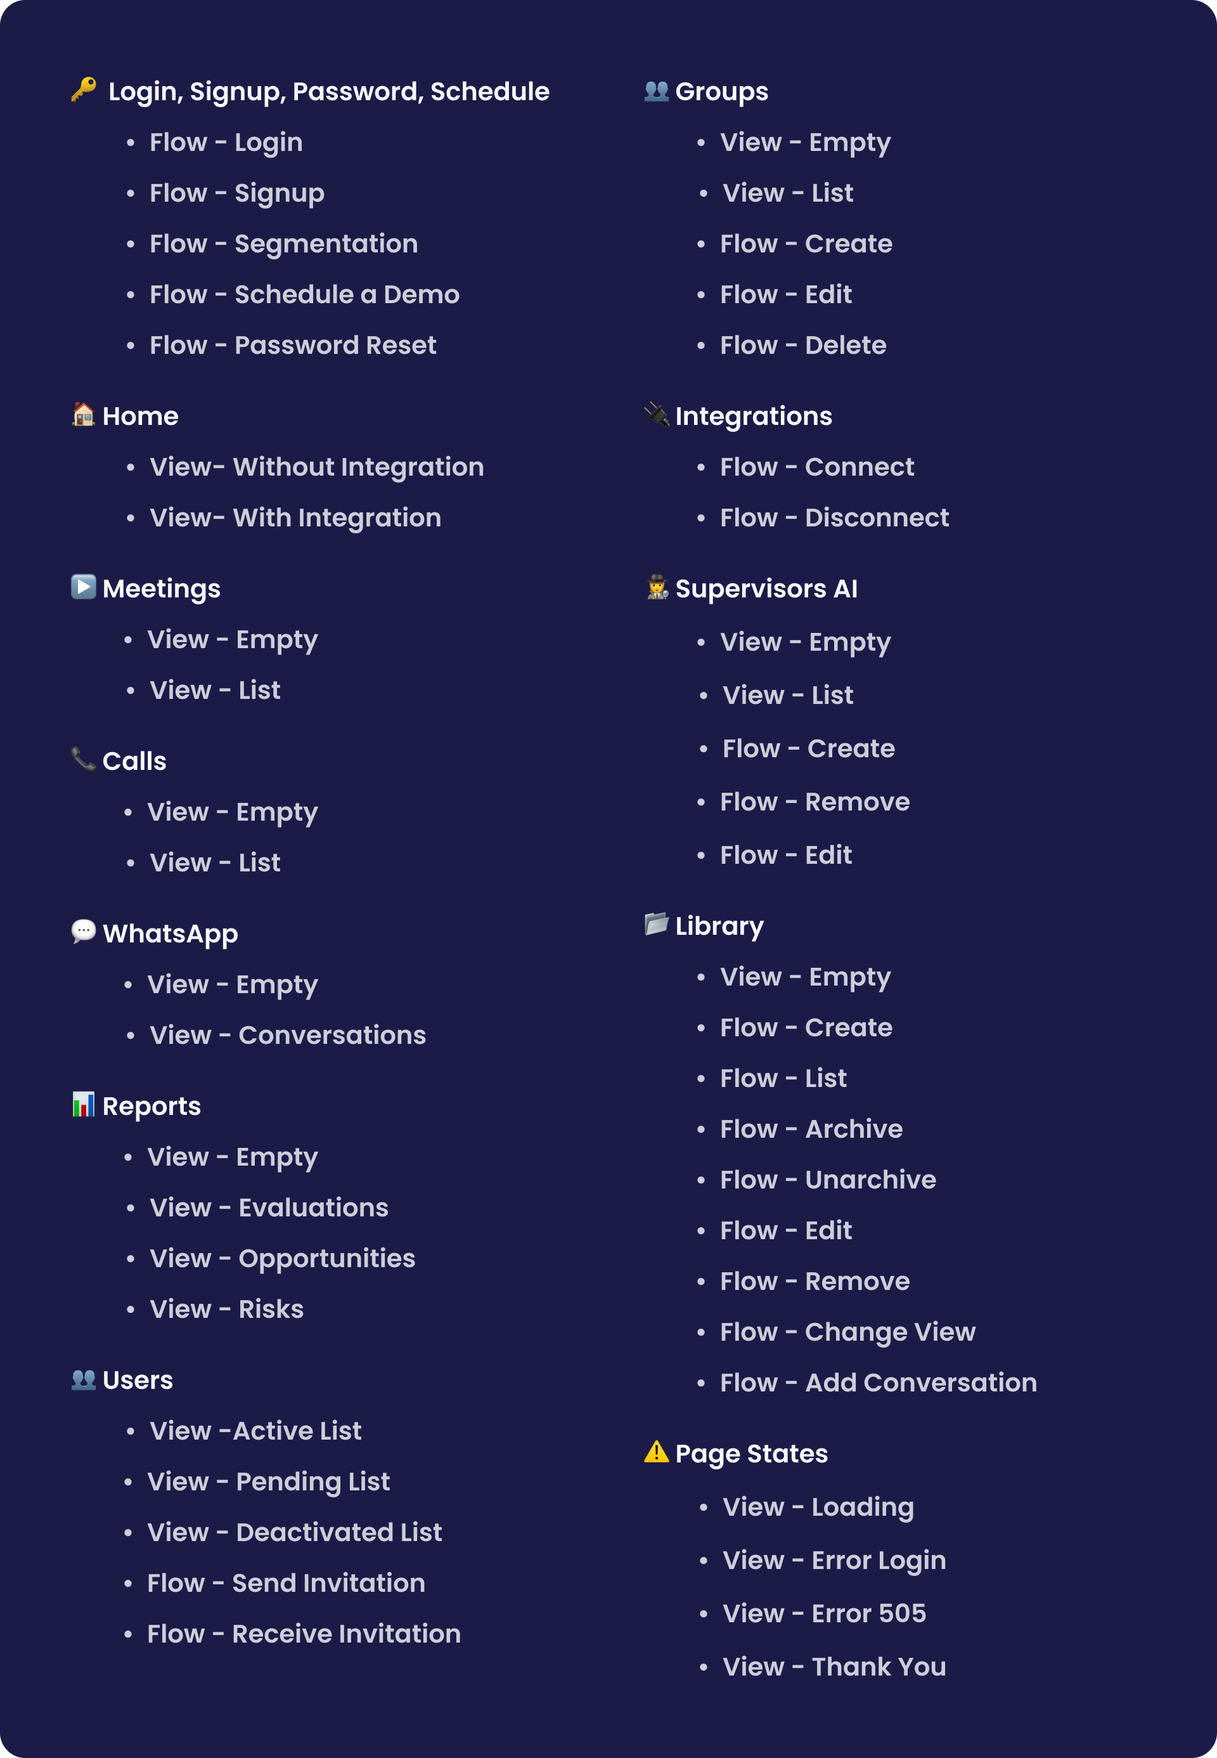
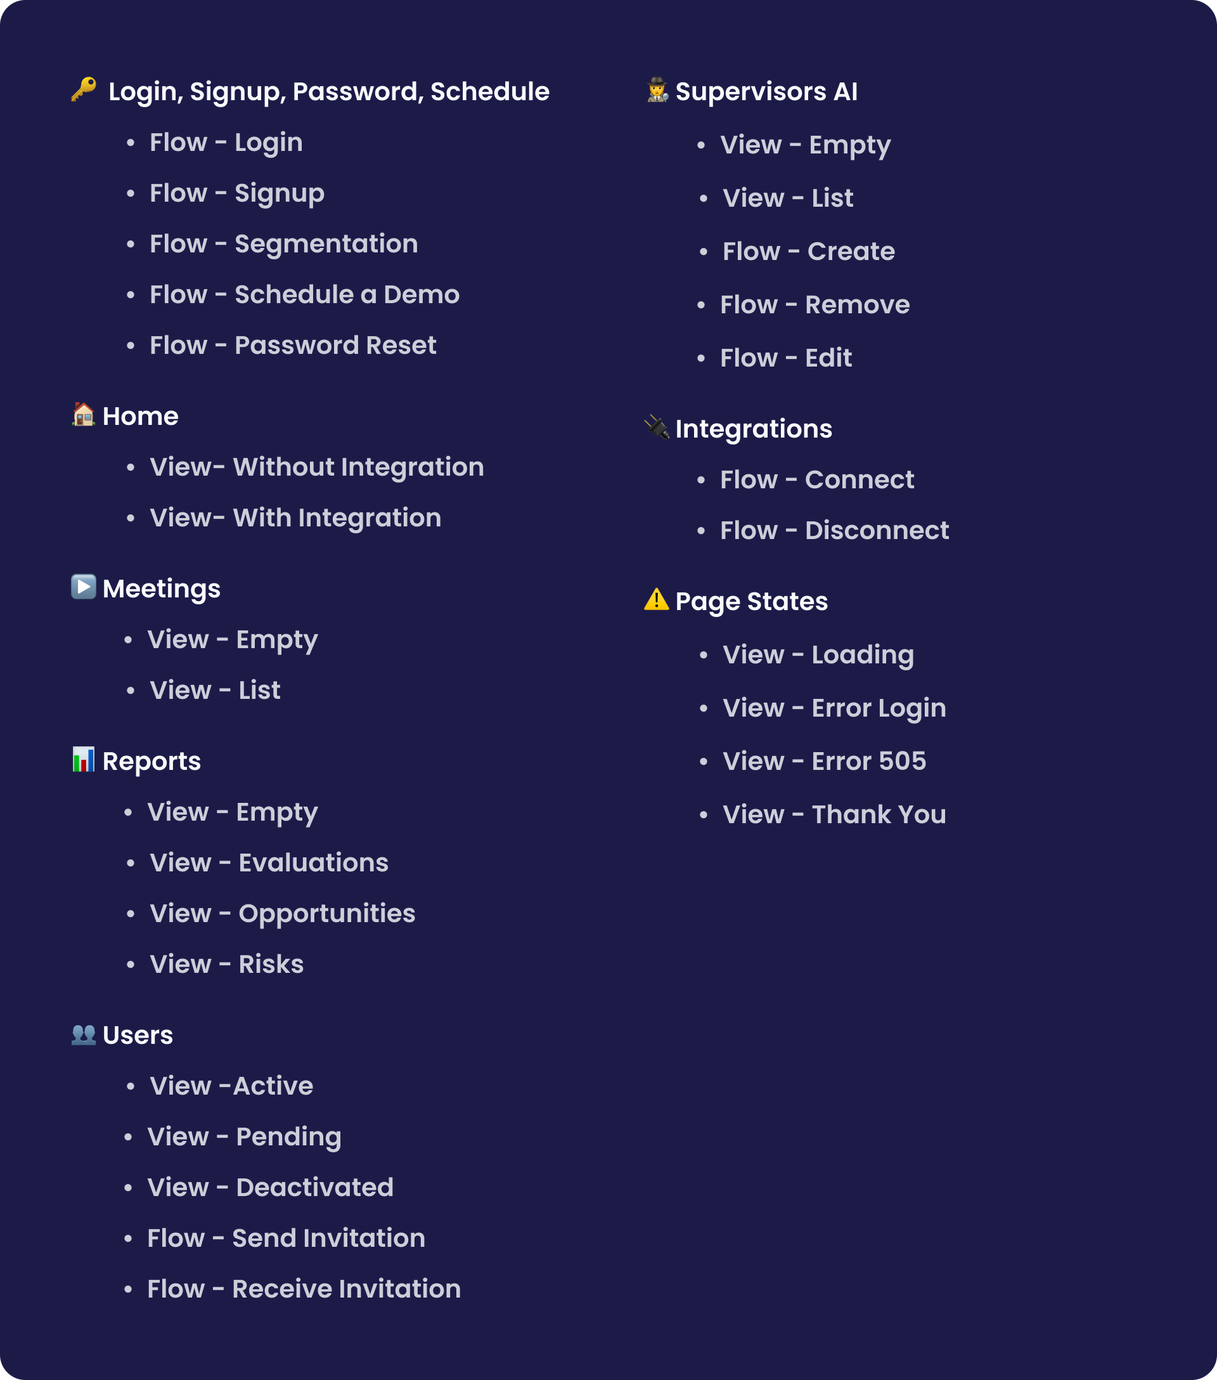
feat: publicar el caso Framework para agentes de voz con IA
Añade el tercer proyecto del portafolio, actualiza copy de Principios y bump a v2.1.0 para el Laboratorio.

Changed region(s): [[0.0625, 0.0312, 0.4375, 0.9375], [0.5312, 0.0312, 0.8438, 0.9688]]

diff --git a/src/content/cases/agents-studio.ts b/src/content/cases/agents-studio.ts
@@ -1,0 +1,105 @@
+import frameworkCover from '../../assets/images/framework-ai-voice-agents-cover.png';
+import leracomLogo from '../../assets/logos/leracom-ai.png';
+import { Language, Project } from '../../types';
+
+export function agentsStudioProject(lang: Language): Project {
+  const es = lang === 'es';
+  const impactStats = [
+    {
+      value: es ? '3 meses → 1 semana' : '3 months → 1 week',
+      label: es ? 'Implementación del voicebot' : 'Voicebot implementation'
+    },
+    {
+      value: es ? '12+ → 6 sesiones' : '12+ → 6 sessions',
+      label: es ? 'por proyecto' : 'per project'
+    }
+  ];
+
+  return {
+    id: 'agents-studio',
+    title: es
+      ? 'Framework para agentes de voz con IA'
+      : 'Framework for AI voice agents',
+    category: 'Product',
+    company: 'Leracom AI',
+    logo: leracomLogo,
+    description: es
+      ? 'Framework para agentes de voz con IA'
+      : 'Framework for AI voice agents',
+    intro: es
+      ? 'Diseñé y estandaricé un proceso para crear agentes de voz con IA enfocados en automatizar operaciones de cobranza, ventas y reclutamiento.\n\nEl framework organiza el trabajo desde el discovery y la arquitectura conversacional hasta la implementación, validación y lanzamiento a producción.'
+      : 'I designed and standardized a process for creating AI voice agents focused on automating collections, sales, and recruiting operations.\n\nThe framework organizes the work from discovery and conversational architecture through implementation, validation, and production launch.',
+    image: frameworkCover,
+    cardTitle: es ? 'Framework para agentes de voz con IA' : 'Framework for AI voice agents',
+    role: es ? 'UX Conversacional' : 'Conversational UX',
+    duration: es ? '6 meses' : '6 months',
+    impact: es
+      ? 'De 3 meses a 1 semana de implementación. De 12+ a 6 sesiones por proyecto.'
+      : 'From 3 months to 1 week of implementation. From 12+ to 6 sessions per project.',
+    impactStats,
+    tools: [
+      es ? 'UX Conversacional' : 'Conversational UX',
+      'Discovery',
+      es ? 'Arquitectura conversacional' : 'Conversational architecture',
+      'Customer Journeys',
+      es ? 'Reglas de negocio' : 'Business rules',
+      es ? 'Validación' : 'Validation',
+      es ? 'Entrevistas de usuario' : 'User interviews',
+      es ? 'Agentes de voz con AI' : 'AI voice agents'
+    ],
+    sections: [
+      {
+        id: 'results',
+        title: es ? 'Impacto' : 'Impact',
+        detailBody: es
+          ? 'Redujimos el tiempo necesario para configurar, entrenar, integrar y llevar un voicebot a producción una vez definidos los requerimientos.\n\nReducimos el mínimo promedio de sesiones necesarias para la implementación end to end de cada implementación.\n\nEstandarizamos el proceso para implementar agentes de voz en operaciones de cobranza, ventas y reclutamiento.'
+          : 'We reduced the time needed to configure, train, integrate, and take a voicebot to production once requirements were defined.\n\nWe reduced the average minimum of sessions needed for the end-to-end implementation of each project.\n\nWe standardized the process for implementing voice agents in collections, sales, and recruiting operations.',
+        stats: impactStats
+      },
+      {
+        id: 'problem',
+        title: es ? 'Problema' : 'Problem',
+        detailBody: es
+          ? 'Las primeras implementaciones de voicebots requerían demasiadas reuniones con clientes para entender cómo funcionaba cada negocio.\n\nLa información estaba dispersa, muchos clientes no contaban con documentación completa y no teníamos un proceso estándar para identificar reglas, manejo de objeciones, preguntas frecuentes, variables e integraciones.\n\nEsto provocaba cambios frecuentes de alcance y múltiples rondas de ajustes.\n\nEl reto era crear un proceso replicable para obtener la información necesaria, definir cómo debía comportarse cada agente y acelerar su implementación.'
+          : 'The first voicebot implementations required too many client meetings to understand how each business worked.\n\nInformation was scattered, many clients lacked complete documentation, and we had no standard process to identify rules, objection handling, FAQs, variables, and integrations.\n\nThat led to frequent scope changes and multiple rounds of adjustments.\n\nThe challenge was to create a repeatable process to gather the needed information, define how each agent should behave, and speed up implementation.',
+        body: es
+          ? 'Las primeras implementaciones requerían demasiadas reuniones, información dispersa y múltiples cambios de alcance.\n\nEl reto era crear un proceso replicable para definir y construir agentes de voz para cobranza, ventas y reclutamiento.'
+          : 'The first implementations needed too many meetings, scattered information, and multiple scope changes.\n\nThe challenge was to create a repeatable process to define and build voice agents for collections, sales, and recruiting.'
+      },
+      {
+        id: 'process',
+        title: es ? 'Cómo Construimos el Framework' : 'How We Built the Framework',
+        steps: [
+          {
+            number: '01',
+            title: 'Discovery',
+            body: es
+              ? 'Estandaricé el discovery para identificar desde el inicio la información necesaria entre las áreas de cobranza, ventas y reclutamiento.\n\nIdentifiqué patrones entre las áreas de cobranza, ventas y reclutamiento para definir qué información necesitábamos solicitar desde las primeras sesiones.\n\nEstandarizamos las preguntas de discovery y la documentación requerida, incluyendo procesos, scripts, llamadas reales, preguntas frecuentes, manejo de objeciones y reglas de negocio.'
+              : 'I standardized discovery to identify from the start the information needed across collections, sales, and recruiting.\n\nI identified patterns across collections, sales, and recruiting to define what information we needed to request from the first sessions.\n\nWe standardized discovery questions and the required documentation, including processes, scripts, real calls, FAQs, objection handling, and business rules.'
+          },
+          {
+            number: '02',
+            title: es ? 'Arquitectura conversacional' : 'Conversational architecture',
+            body: es
+              ? 'Transformé los requerimientos del negocio en flujos conversacionales con reglas, manejo de objeciones, preguntas frecuentes, condiciones, variables y criterios de escalamiento.\n\nCon la información recopilada, diseñábamos los flujos conversacionales que definían cómo debía comportarse el agente en cada conversación.\n\nTrabajábamos con expertos del cliente para establecer reglas, manejo de objeciones, preguntas frecuentes, condiciones, variables y criterios de escalamiento.\n\nCuando no existían scripts o documentación suficiente, analizábamos llamadas reales para construir una base conversacional.'
+              : 'I turned business requirements into conversational flows with rules, objection handling, FAQs, conditions, variables, and escalation criteria.\n\nWith the information gathered, we designed the conversational flows that defined how the agent should behave in each conversation.\n\nWe worked with the client’s experts to set rules, objection handling, FAQs, conditions, variables, and escalation criteria.\n\nWhen there were no scripts or enough documentation, we analyzed real calls to build a conversational baseline.'
+          },
+          {
+            number: '03',
+            title: es ? 'Implementación' : 'Implementation',
+            body: es
+              ? 'Configuramos y entrenamos el voicebot e integramos los sistemas necesarios para operar con datos del cliente.\n\nUna vez validado el flujo, configurábamos y entrenábamos el voicebot.\n\nEn paralelo, coordinábamos con desarrollo las conexiones necesarias mediante APIs, webhooks y CRM para consultar o registrar información durante las llamadas.'
+              : 'We configured and trained the voicebot and integrated the systems needed to operate with client data.\n\nOnce the flow was validated, we configured and trained the voicebot.\n\nIn parallel, we coordinated with development the connections needed through APIs, webhooks, and CRM to query or record information during calls.'
+          },
+          {
+            number: '04',
+            title: es ? 'Validación y lanzamiento' : 'Validation and launch',
+            body: es
+              ? 'Validamos los casos de uso y realizamos una preliberación de un mínimo de llamadas antes del lanzamiento a producción.\n\nProbábamos los casos de uso definidos junto con el cliente y corregíamos los comportamientos que no cumplían con las reglas establecidas.\n\nAntes de producción realizábamos una preliberación de un mínimo de llamadas reales para comprobar la estabilidad del agente durante la marcación y la conversación.\n\nDespués de los ajustes finales, el voicebot pasaba a producción.'
+              : 'We validated use cases and ran a pre-release of a minimum number of calls before production launch.\n\nWe tested the defined use cases with the client and corrected behavior that did not meet the established rules.\n\nBefore production we ran a pre-release of a minimum number of real calls to check the agent’s stability during dialing and conversation.\n\nAfter the final adjustments, the voicebot went to production.'
+          }
+        ]
+      }
+    ]
+  };
+}

diff --git a/src/content/data.ts b/src/content/data.ts
@@ -23,7 +23,7 @@ export const TRANSLATIONS = {
     splashLine: 'Bienvenidxs, ¡Soy Andur!',
     heroPhrases: [
       'Me apasiona construir sistemas vivos que evolucionen constantemente',
-      'Actualmente, me especializo en diseñar productos SaaS, fintech e IA',
+      'Me especializo en diseñar productos SaaS, fintech e IA',
       'Creo experiencias únicas que conectan de forma genuina con las personas',
     ],
     splashHint: 'Haz clic o desplázate para continuar',
@@ -109,7 +109,7 @@ export const TRANSLATIONS = {
     splashLine: "Welcome, I'm Andur!",
     heroPhrases: [
       'I’m passionate about building living systems that keep evolving',
-      'I currently specialize in designing SaaS, fintech, and AI products',
+      'I specialize in designing SaaS, fintech, and AI products',
       'I create unique experiences that connect genuinely with people',
     ],
     splashHint: 'Click or scroll to continue',
@@ -129,7 +129,7 @@ export const TRANSLATIONS = {
     modalDuration: 'Duration',
     modalImpact: 'Impact',
     modalDetail: 'Detailed',
-    modalBrief: 'Brief',
+    modalBrief: 'TL:DR',
     modalSummary: 'Project Summary',
     modalTools: 'Tools and skills',
     modalClose: 'Close',
@@ -188,26 +188,26 @@ export const METRICS = (lang: 'es' | 'en'): Metric[] => [
 export const APPROACH_STAGES = (lang: 'es' | 'en'): ApproachStage[] => [
   {
     number: '01',
-    title: lang === 'es' ? 'Entender para Diseñar' : 'Understand to Design',
+    title: lang === 'es' ? 'Entender para Definir' : 'Understand to Define',
     description: lang === 'es'
-      ? 'Antes de construir una solución busco entender a las personas, el negocio, el contexto y los alcances técnicos. Una interfaz clara comienza con un problema bien definido.'
-      : 'Before building a solution I seek to understand people, the business, the context, and the technical constraints. A clear interface starts with a well-defined problem.',
+      ? 'Antes de construir una solución busco entender a las personas, el negocio, el contexto y los alcances técnicos.'
+      : 'Before building a solution I seek to understand people, the business, the context, and the technical constraints.',
     icon: 'understand',
   },
   {
     number: '02',
     title: lang === 'es' ? 'Colaborar para Decidir' : 'Collaborate to Decide',
     description: lang === 'es'
-      ? 'Colaborar con diferentes áreas ayuda a descubrir nuevas ideas, reducir supuestos, priorizar y tomar decisiones compartidas. La comunicación es una habilidad indispensable para construir mejores productos.'
-      : 'Collaborating with different teams helps uncover new ideas, reduce assumptions, prioritize, and make shared decisions. Communication is an essential skill for building better products.',
+      ? 'La comunicación constante con diferentes áreas es indispensable para descubrir nuevas ideas, reducir supuestos, priorizar y tomar decisiones compartidas para construir mejores productos.'
+      : 'Constant communication with different teams is essential to uncover new ideas, reduce assumptions, prioritize, and make shared decisions to build better products.',
     icon: 'collaborate',
   },
   {
     number: '03',
     title: lang === 'es' ? 'Iterar para Evolucionar' : 'Iterate to Evolve',
     description: lang === 'es'
-      ? 'Es importante medir, validar e iterar constantemente interfaces y sistemas de diseño para mejorar la experiencia de usuario. Un producto evoluciona constantemente con los usuarios, el negocio y la tecnología.'
-      : 'It is important to constantly measure, validate, and iterate interfaces and design systems to improve the user experience. A product constantly evolves with users, the business, and technology.',
+      ? 'Para que un producto evolucione, es necesario medir, validar y optimizar constantemente los flujos y sistemas de diseño para mejorar la experiencia de usuario.'
+      : 'For a product to evolve, it is necessary to constantly measure, validate, and optimize flows and design systems to improve the user experience.',
     icon: 'iterate',
   },
 ];

diff --git a/src/content/cases/supervisor.ts b/src/content/cases/supervisor.ts
@@ -66,8 +66,8 @@ export function supervisorProject(lang: Language): Project {
         id: 'problem',
         title: es ? 'Problema' : 'Problem',
         detailBody: es
-          ? 'Después de una llamada o reunión con un cliente, gran parte de la información relevante suele quedar dispersa entre herramientas, notas o incluso en la memoria de las personas.\n\nPara los líderes, esto significaba tener poca visibilidad sobre cientos de conversaciones: **qué objetivos se cumplían, cómo se atendía a los clientes, qué objeciones aparecían, dónde existían oportunidades de mejora, qué interacciones representaban un riesgo y cuál era el desempeño de cada agente**.'
-          : 'After a call or meeting with a customer, much of the relevant information often ends up scattered across tools, notes, or even people’s memory.\n\nFor leaders, that meant little visibility across hundreds of conversations: **which goals were met, how customers were served, which objections appeared, where there were opportunities to improve, which interactions represented a risk, and how each agent performed**.',
+          ? 'Después de una llamada o reunión con un cliente, gran parte de la información relevante suele quedar dispersa entre herramientas, notas o incluso en la memoria de las personas.\n\nPara los líderes, esto significaba tener poca visibilidad sobre cientos de conversaciones: **qué objetivos se cumplían, cómo se atendía a los clientes, qué objeciones aparecían, dónde existían oportunidades de mejora, qué interacciones representaban un riesgo y cuál era el desempeño de cada agente**.\n\nEl reto era transformar estas conversaciones en **información y métricas claras, útiles y fáciles de consultar**, mientras descubríamos qué casos de uso y mercados podían obtener mayor valor del producto.'
+          : 'After a call or meeting with a customer, much of the relevant information often ends up scattered across tools, notes, or even people’s memory.\n\nFor leaders, that meant little visibility across hundreds of conversations: **which goals were met, how customers were served, which objections appeared, where there were opportunities to improve, which interactions represented a risk, and how each agent performed**.\n\nThe challenge was to turn these conversations into **clear, useful, easy-to-consult information and metrics**, while discovering which use cases and markets could get the most value from the product.',
         body: es
           ? 'El reto era transformar estas conversaciones en **información y métricas claras, útiles y fáciles de consultar**, mientras descubríamos qué casos de uso y mercados podían obtener mayor valor del producto.'
           : 'The challenge was to turn these conversations into **clear, useful, easy-to-consult information and metrics**, while discovering which use cases and markets could get the most value from the product.'

diff --git a/src/content/cases/grill.ts b/src/content/cases/grill.ts
@@ -63,8 +63,8 @@ export function grillProject(lang: Language): Project {
         id: 'problem',
         title: es ? 'Problema' : 'Problem',
         detailBody: es
-          ? 'Los productos de Yaydoo habían evolucionado con diferentes estilos de interfaces. Componentes como botones, inputs, estados y espaciados podían verse o comportarse de forma distinta dependiendo del producto.'
-          : 'Yaydoo’s products had evolved with different interface styles. Components such as buttons, inputs, states, and spacing could look or behave differently depending on the product.',
+          ? 'Los productos de Yaydoo habían evolucionado con diferentes estilos de interfaces. Componentes como botones, inputs, estados y espaciados podían verse o comportarse de forma distinta dependiendo del producto.\n\nEl reto era crear una base compartida y escalable que unificara la experiencia, redujera el trabajo repetitivo y facilitara y acelerara la creación de nuevas interfaces entre los productos de Yaydoo.'
+          : 'Yaydoo’s products had evolved with different interface styles. Components such as buttons, inputs, states, and spacing could look or behave differently depending on the product.\n\nThe challenge was to create a shared, scalable foundation that would unify the experience, reduce repetitive work, and make it easier and faster to create new interfaces across Yaydoo’s products.',
         body: es
           ? 'El reto era crear una base compartida y escalable que unificara la experiencia, redujera el trabajo repetitivo y facilitara y acelerara la creación de nuevas interfaces entre los productos de Yaydoo.'
           : 'The challenge was to create a shared, scalable foundation that would unify the experience, reduce repetitive work, and make it easier and faster to create new interfaces across Yaydoo’s products.'

diff --git a/src/content/projects.ts b/src/content/projects.ts
@@ -1,5 +1,10 @@
 import { Language, Project } from '../types';
+import { agentsStudioProject } from './cases/agents-studio';
 import { grillProject } from './cases/grill';
 import { supervisorProject } from './cases/supervisor';
 
-export const PROJECTS = (lang: Language): Project[] => [grillProject(lang), supervisorProject(lang)];
+export const PROJECTS = (lang: Language): Project[] => [
+  agentsStudioProject(lang),
+  grillProject(lang),
+  supervisorProject(lang),
+];

diff --git a/src/components/sections/Portfolio.tsx b/src/components/sections/Portfolio.tsx
@@ -163,7 +163,7 @@ function CaseSection({
         ) : null}
       </div>
       {detailed && section.detailBody ? <RichText text={section.detailBody} /> : null}
-      {section.body ? (
+      {section.body && !(detailed && section.detailBody) ? (
         <RichText text={detailed || section.detailBody ? section.body : section.body.split('\n\n')[0]} />
       ) : null}
       {section.stats ? <ImpactStats stats={section.stats} /> : null}

diff --git a/state/current.md b/state/current.md
@@ -1,6 +1,6 @@
 # Estado actual
 
-Actualizado: 2026-09-08.
+Actualizado: 2026-10-14.
 
 ## Landing
 
@@ -8,7 +8,7 @@ Hero → logos → Principios → Proceso → Proyectos (`Work`) → Contacto (`
 
 Proceso: bloques del mismo ancho, centrados (texto e ícono); desde `md` van en fila. Principios: 3 cards.
 
-Proyectos: dos cards (Grill, Supervisor AI). Cover a pantalla completa, sin overlay; el `title` del modal es el copy largo. Grill: `Design System - Cover`. Supervisor: `SaaS Platform - Cover`.
+Proyectos: tres cards (Framework para agentes de voz con IA, Grill, Supervisor AI). Cover a pantalla completa, sin overlay; el `title` del modal es el copy largo. Framework: `Framework for AI voice agents - Cover`. Grill: `Design System - Cover`. Supervisor: `SaaS Platform - Cover`.
 
 Grill: pasos 1–4 con imagen light/dark. Supervisor: 5 pasos. 02 secciones light/dark; 03 tres sliders before/after; 04 Supervisores + plantillas a ancho de columna; 05 cierre. Herramientas: Figma, AI, SaaS, Lovable.
 
@@ -16,8 +16,7 @@ Header: idioma en un clic (bandera del activo); CV/Resume con ícono de descarga
 
 ## Próximo
 
-1. Más proyectos (copy + portada + EN).
-2. QA en móvil real.
+1. QA en móvil real.
 
 ## Riesgos
 

diff --git a/CHANGELOG.md b/CHANGELOG.md
@@ -4,6 +4,17 @@ Este proyecto sigue [Versionado Semántico (SemVer)](https://semver.org/lang/es/
 
 ## [Unreleased]
 
+## [2.1.0] - 2026-10-14
+
+### Added
+
+- Caso **Framework para agentes de voz con IA** (Leracom AI): cover, modal bilingüe, impacto y herramientas.
+
+### Changed
+
+- Copy de Principios, frase rotativa de especialización y toggle **TL:DR** en inglés.
+- Imágenes de secciones del caso Supervisor AI.
+
 ## [2.0.0] - 2026-09-02
 
 ### Added
@@ -56,7 +67,8 @@ Este proyecto sigue [Versionado Semántico (SemVer)](https://semver.org/lang/es/
 - Tema claro/oscuro, tour, Laboratorio, Design System y NPS.
 - Secciones Hero, Métricas, Trayectoria, Proyectos, Contacto y FAQ.
 
-[Unreleased]: https://github.com/AndurEsn/Andur-portafolio/compare/v2.0.0...HEAD
+[Unreleased]: https://github.com/AndurEsn/Andur-portafolio/compare/v2.1.0...HEAD
+[2.1.0]: https://github.com/AndurEsn/Andur-portafolio/compare/v2.0.0...v2.1.0
 [2.0.0]: https://github.com/AndurEsn/Andur-portafolio/compare/v1.1.0...v2.0.0
 [1.1.0]: https://github.com/AndurEsn/Andur-portafolio/compare/v1.0.0...v1.1.0
 [1.0.0]: https://github.com/AndurEsn/Andur-portafolio/releases/tag/v1.0.0
